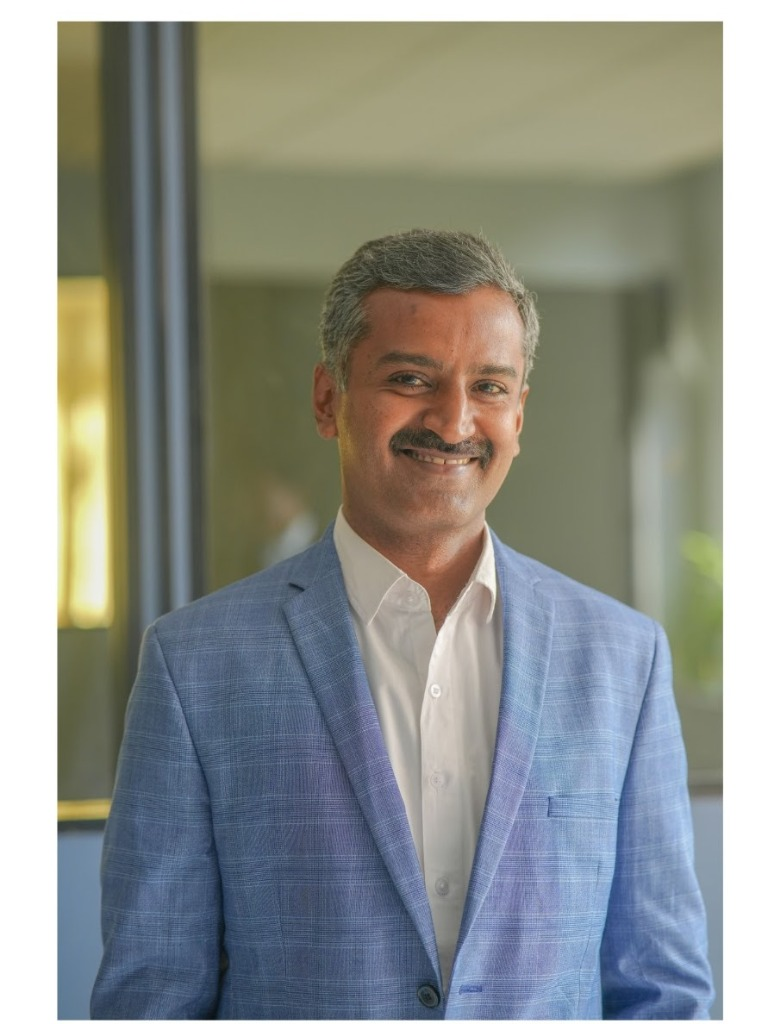
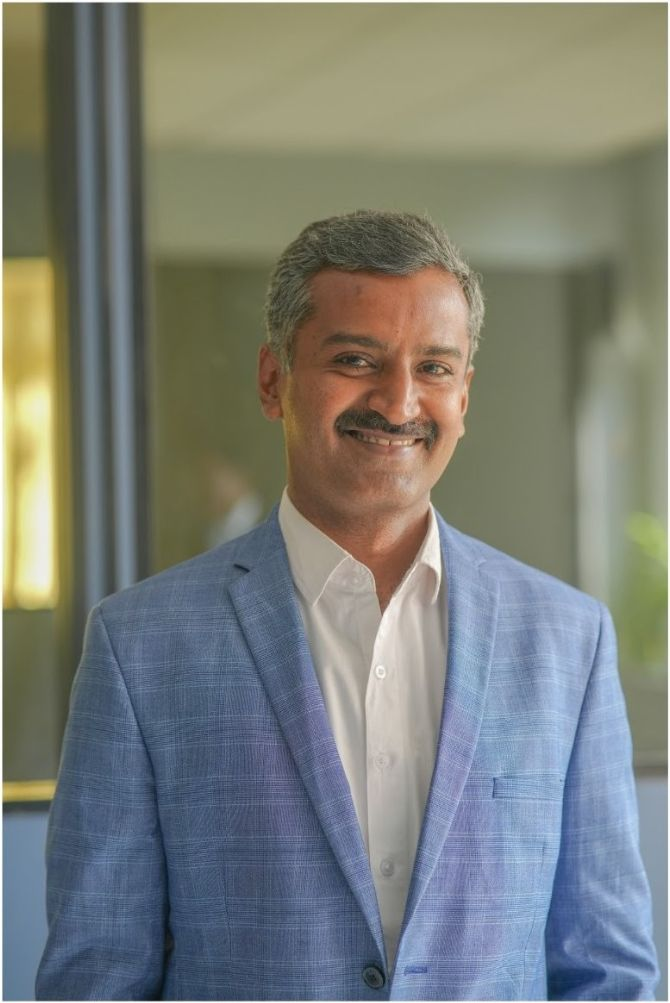
director img changed

diff --git a/src/app/directors-note/page.tsx b/src/app/directors-note/page.tsx
@@ -29,9 +29,9 @@ export default function DirectorsNote() {
             <div className="prose max-w-none text-gray-text leading-relaxed text-[15px] sm:text-base flex flex-col gap-6 text-justify">
               
               {/* Responsive photo */}
-              <div className="w-full md:w-80 md:float-right md:ml-8 mb-6 mx-auto relative group">
+              <div className="w-full max-w-[320px] mb-6 mx-auto self-center relative group">
                 <div className="absolute -inset-2 bg-secondary/5 rounded-2xl -z-10 group-hover:scale-[1.01] transition-transform duration-500" />
-                <div className="relative w-full aspect-[4/5] rounded-xl overflow-hidden shadow-lg border border-black/5">
+                <div className="relative w-full aspect-[2/3] rounded-xl overflow-hidden shadow-lg border border-black/5">
                   <Image
                     src="/assets/directors_photo.jpg"
                     alt="Dr. Padmakumar MM"
